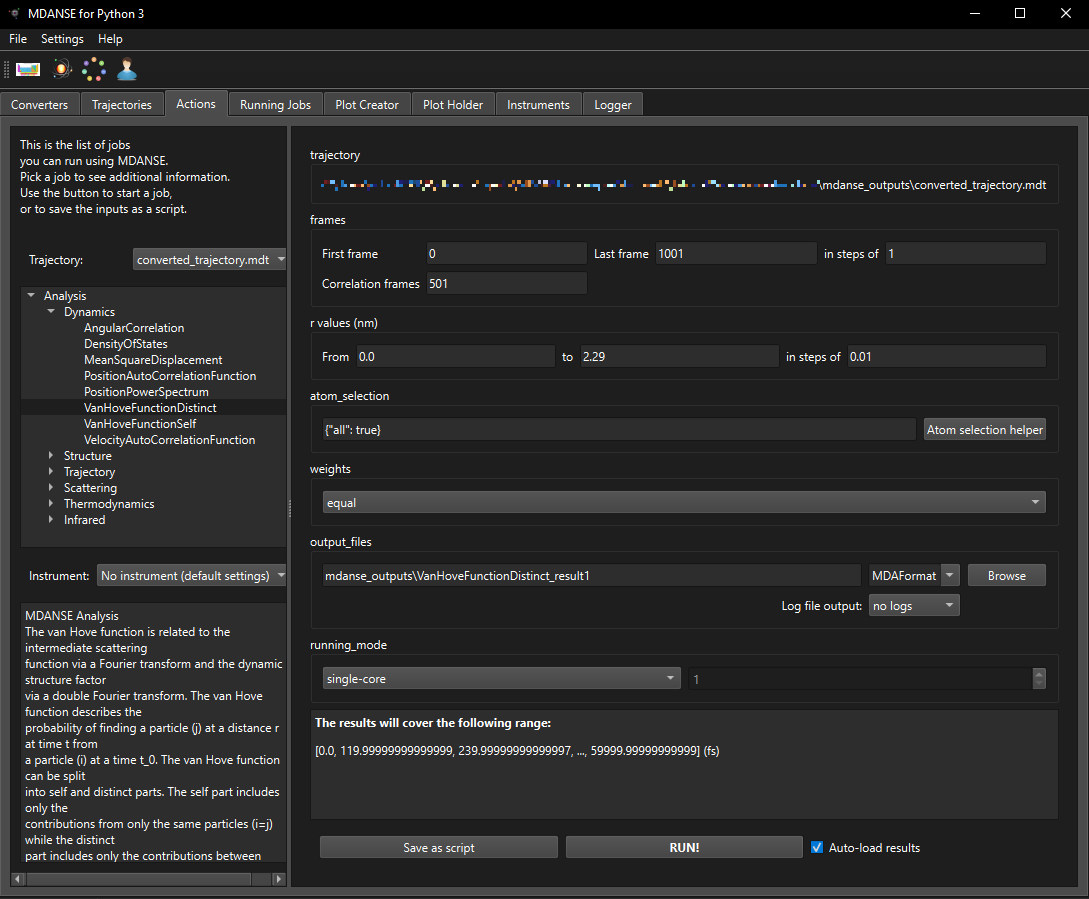
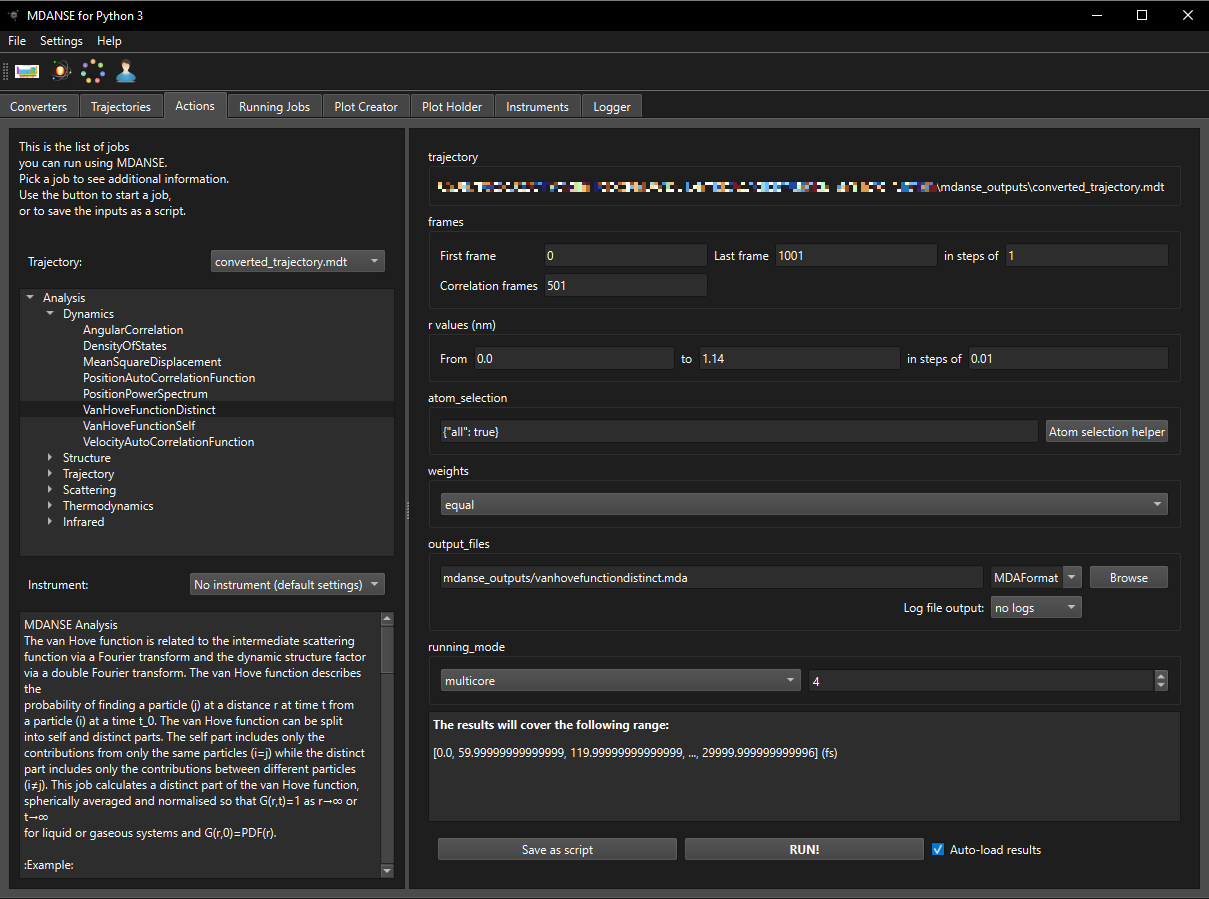
updated tutorial 2

diff --git a/tutorials/tutorial2-van-hove-function/README.md b/tutorials/tutorial2-van-hove-function/README.md
@@ -13,16 +13,16 @@ at the end of the tutorial.
 ### Pair distribution function
 The pair distribution function (PDF) provides us with some information about 
 how atoms are distributed in the system. It tells us what the average 
-number of particles will be at a distance $\mathbf{r}$ in volume 
-$\mathrm{d}\mathbf{r}$ from an atom.
+number of particles will be at a distance $\mathbold{r}$ in volume 
+$\mathrm{d}\mathbold{r}$ from an atom.
 
 ```math
-n_0 g(\mathbf{r}) \mathrm{d}\mathbf{r} = \mathrm{d}N(\mathbf{r})$$
+n_0 g(\mathbold{r}) \mathrm{d}\mathbold{r} = \mathrm{d}N(\mathbold{r})
 ```
 
-Here $n_0$ is the bulk density, $g(\mathbf{r})$ is the PDF and 
-$\mathrm{d}N(\mathbf{r})$ is the average number of particles in the 
-volume $\mathrm{d}\mathbf{r}$. The PDF is can be written so that it is a 
+Here $n_0$ is the bulk density, $g(\mathbold{r})$ is the PDF and 
+$\mathrm{d}N(\mathbold{r})$ is the average number of particles in the 
+volume $\mathrm{d}\mathbold{r}$. The PDF is can be written so that it is a 
 function of the distance atoms. In this case the pair distribution 
 function tells us the average number of particles in the shell volume 
 $4 \pi r^2 \mathrm{d}r$ from a distance $r$ of an atom.
@@ -33,29 +33,30 @@ n_0 g(r) 4 \pi r^2 \mathrm{d}r = \mathrm{d}N(r)
 
 Now the PDF $g(r)$ is a function of distance and 
 $\mathrm{d}N(r)$ is the average number of particles in the shell volume 
-$\mathrm{d}\mathbf{r}$. The PDF can be written as a sum of delta 
+$\mathrm{d}\mathbold{r}$. The PDF can be written as a sum of delta 
 functions. 
 
 ```math
-n_0 g(r) = \frac{1}{4 \pi r^2} \frac{1}{N} \sum_{k \neq j} \langle \delta (r - \vert \mathbf{r}_k - \mathbf{r}_j \vert) \rangle
+n_0 g(r) = \frac{1}{4 \pi r^2} \frac{1}{N} \sum_{k \neq j} \langle \delta (r - \vert \mathbold{r}_k - \mathbold{r}_j \vert) \rangle
 ```
 
 **Question 1**: Try to derive this equation. Think about what $N(r)$ is 
 and therefore what $\mathrm{d}N(r) = N(r + \mathrm{d}r) - N(r)$ should be.
 
-For more details on the PDF see **MDANSE Tutorial 1: a phase transition**.
+For more details on running PDF calculations with MDANSE 
+see **MDANSE Tutorial 1: a phase transition**.
 
 ### The van Hove function
 
 ```math
-n_0 g(\mathbf{r}) = \frac{1}{N} \sum_{k \neq j} \langle \delta (\mathbf{r} - \mathbf{r}_k - \mathbf{r}_j) \rangle
+n_0 g(\mathbold{r}) = \frac{1}{N} \sum_{k \neq j} \langle \delta (\mathbold{r} - \mathbold{r}_k - \mathbold{r}_j) \rangle
 ```
 
-Is the PDF as a function of $\mathbf{r}$, the van Hove function is closely 
+Is the PDF as a function of $\mathbold{r}$, the van Hove function is closely 
 related and is also a sum of delta functions.
 
 ```math
-G(\mathbf{r}, t) = \frac{1}{N} \sum_{k j} \langle \delta (\mathbf{r} - \mathbf{r}_k(t) - \mathbf{r}_j(0)) \rangle
+G(\mathbold{r}, t) = \frac{1}{N} \sum_{k j} \langle \delta (\mathbold{r} - \mathbold{r}_k(t) - \mathbold{r}_j(0)) \rangle
 ```
 
 The PDF gives use some insights into the structure of our system while 
@@ -64,16 +65,16 @@ of the system. The van Hove function can be split into self and distinct
 parts.
 
 ```math
-G_{\mathrm{s}}(\mathbf{r}, t) = \frac{1}{N} \sum_{j} \langle \delta (\mathbf{r} - \mathbf{r}_j(t) - \mathbf{r}_j(0)) \rangle
-G_{\mathrm{d}}(\mathbf{r}, t) = \frac{1}{N} \sum_{k \neq j} \langle \delta (\mathbf{r} - \mathbf{r}_k(t) - \mathbf{r}_j(0)) \rangle
+G_{\mathrm{s}}(\mathbold{r}, t) = \frac{1}{N} \sum_{j} \langle \delta (\mathbold{r} - \mathbold{r}_j(t) - \mathbold{r}_j(0)) \rangle \\
+G_{\mathrm{d}}(\mathbold{r}, t) = \frac{1}{N} \sum_{k \neq j} \langle \delta (\mathbold{r} - \mathbold{r}_k(t) - \mathbold{r}_j(0)) \rangle
 ```
 
 At $t=0$ the distinct-part of the van Hove function is the PDF 
-$G_{\mathrm{d}}(\mathbf{r}, 0) = n_0 g(\mathbf{r})$. At other times
+$G_{\mathrm{d}}(\mathbold{r}, 0) = n_0 g(\mathbold{r})$. At other times
 the distinct-part of the van Hove function describes distance between 
 atom at different times.
 
-![temperature_analysis](pictures/vhd_diagram.png)
+![vhd_diagram](pictures/vhd_diagram.png)
 
 The above figure shows the distances (red arrows) that the distinct-part 
 of the van Hove function depends on. At $t=0$ the van Hove function is simply 
@@ -81,14 +82,14 @@ the PDF. After a some time the blue and green atoms move
 some distance, the distinct-part of the van Hove function depends on the 
 distances between atoms at $t=0$ and $t=1$.
 
-![temperature_analysis](pictures/vhs_diagram.png)
+![vhs_diagram](pictures/vhs_diagram.png)
 
 The self-part of the van Hove function is closely related to the 
 diffusion of a particle. The above figure shows the distances (red arrows) 
 that the self-part of the van Hove function depends on. At $t=0$ there 
 are no arrows since the distance of at atom with itself is zero so that 
 the van Hove function is a delta function 
-$G_{\mathrm{s}}(\mathbf{r}, 0) = \delta(\mathbf{r})$. At $t \neq 0$ the 
+$G_{\mathrm{s}}(\mathbold{r}, 0) = \delta(\mathbold{r})$. At $t \neq 0$ the 
 self-part of the van Hove function depends on distances between atoms 
 with itself at different times.
 
@@ -137,42 +138,72 @@ is `md_outputs/argon_traj_120fs_85k.txt`. Change the LAMMPS time step to '2',
 since this is the value found in the LAMMPS script for this simulation. Use 
 the generic output filename `mdanse_outputs/converted_trajectory.mdt`.
 
-![temperature_analysis](pictures/conversion_gui.png)
+![conversion_gui](pictures/conversion_gui.png)
 
-## Calculate the distinct part of the van Hove function
+## Calculate the distinct-part of the van Hove function
 Select the VanHoveFunctionDistinct job leaving the setting to the 
-defaults. To speed the calculation up you may want to swtich the 
+defaults. To speed the calculation up you may want to switch the 
 running mode to multicore and the number of processes to a number 
 greater than 1. Set the outputs file to saving the output
-to `mdanse_outputs/vanhovefunctiondistinct.mdt`, hit run and wait 
+to `mdanse_outputs/vanhovefunctiondistinct.mda`, hit run and wait 
 for the job to complete, you check the running jobs tab to check the 
 progress of the job.
 
-![temperature_analysis](pictures/vhd_gui.png)
+![vhd_gui](pictures/vhd_gui.png)
 
 Once complete the results would load up automatically. Go to the 
 plot creator and plot the `g(r,t)_total` result. Go to the plot holder 
 and in the dataset table set the `g(r,t)_total` to have a main axis for 
 `r` and the Use it? setting to `0,10,20`.
 
-![temperature_analysis](pictures/vhd_plotting_gui.png)
+![vhd_plotting_gui](pictures/vhd_plotting_gui.png)
 
-We can see that time advances, the van Hove function begins to flatten 
-and the correlation hole around each atom begins to fill up. The 
-correlation hole is 
+Note that in MDANSE the van Hove function is spherically averaged and is 
+divided by $n_0$. This means that for liquid and gas system, 
+the van Hove function tends towards 1 for large values of $r$. We can see that 
+time advances, the van Hove function begins to flatten and the 
+correlation hole around each atom begins to fill up. The correlation hole 
+is absence of atoms that exists around each atom due to the short-range 
+repulsive effects for the atoms on each other. On the PDF this is the 
+part at short distances that are zero. As time progresses the atoms move 
+and this allows other atoms to move into the hole.
 
-**Question 2**: We calculated the distinct-part of the van Hove 
-function for a liquid. What do you think the distinct-part of 
-the van Hove function would look like for a solid?
-
-**Question 3**: We know that at $t=0$ that the distinct-part of the van 
+**Question 2**: We know that at $t=0$ that the distinct-part of the van 
 Hove function is the PDF. What does the van Hove function become as 
-$t \rightarrow infty$ for solid, liquid and gaseous systems?
+$t \rightarrow \infty$ for solid, liquid and gaseous systems?
+
+## Calculate the self-part of the van Hove function
+Select the VanHoveFunctionSelf job leaving the setting to the 
+except for the correlation frames which we will set to 31. This will 
+mean that there will have 31 time steps of the correlation function, the 
+number configurations each time step of the correlation function will be 
+971 = 1001 - 30 + 1. Set the outputs file to saving the output to 
+`mdanse_outputs/vanhovefunctionself.mda` and hit run. 
+
+Go to the plot 
+creator and plot the `g(r,t)_total` result. Go to the plot holder and in 
+the dataset table set the `g(r,t)_total` to have a main axis for `r`. 
+Notice that for $t=0$ you get one large value near zero, remember that at 
+$t=0$ the self-part of the van Hove function is a delta function. Set 
+the main axis to `r` and Use it? setting to `10,20,30`. You may need to 
+zoom in for the plots towards the smaller distances.
+
+![vhd_plotting_gui](pictures/vhd_plotting_gui.png)
+
+Similarly to the distinct-part, the self-part of the van Hove function 
+is spherically averaged and is divided by $n_0$.
+We can see from the above plots the distributions of the atoms from its 
+initial position at 10, 20 and 30 time steps from $t=0$. The self-part 
+of the van Hove function is closely related to the diffusion of an atom.
+
+**Question 3**: What does the self-part of the van Hove function become as 
+$t \rightarrow \infty$ for solid, liquid and gaseous systems?
+
 
 ## Question 1:
 
 ```math
-n_0 g(\mathbf{r}) 4 \pi r^2 \mathrm{d}r = \mathrm{d}N(r)
+n_0 g(\mathbold{r}) 4 \pi r^2 \mathrm{d}r = \mathrm{d}N(r)
 ```
 
 The function $N(r)$ is a sum of step functions so that $N(r)$
@@ -183,9 +214,31 @@ the derivative of the step functions which are delta functions each
 centered on the distances away to another atom.
 
 ```math
-\frac{\mathrm{d}N(r)}{\mathrm{d}r} = \frac{1}{N} \sum_{k \neq j} \langle \delta (r - \vert \mathbf{r}_k - \mathbf{r}_j \vert) \rangle
+\frac{\mathrm{d}N(r)}{\mathrm{d}r} = \frac{1}{N} \sum_{k \neq j} \langle \delta (r - \vert \mathbold{r}_k - \mathbold{r}_j \vert) \rangle
 ```
 
 Where we have written the sum of delta functions inside $\langle \cdot \rangle$ 
 so that the positions are thermally averaged and average the thermal average
 over all possible atom origins.
+
+## Question 2:
+
+For a solid systems atoms are fixed in specific sites so the 
+distinct part of the van Hove function does not change much. So as 
+$t \rightarrow \infty$ the van Hove function is more or less the same 
+as it is for any other time. For liquid and gaseous system the situation 
+is quite different since atoms are free to move across the system, so that
+$\lim_{t \rightarrow \infty} G_{\mathrm{d}}(\mathbf{r}, t) = n_0$ or $1$ in MDANSE 
+since it has been normalized. In other words this results tell us that 
+there is no correlation between the configurations at $t=0$ and $t = \infty$.
+
+
+## Question 3:
+
+For a solid each atom will be fixed at specific sites. They oscillate 
+around those sites so the self-part of the van Hove function for long 
+times will be a function which described the probability of the atom 
+around the center of its site. For liquid and gaseous system all atoms 
+are free diffuse move across the entire system. For 
+$\lim_{t \rightarrow \infty} G_{\mathrm{s}}(\mathbf{r}, t) = V^-1$ or $N^-1$ i
+in MDANSE since it has been normalized.
